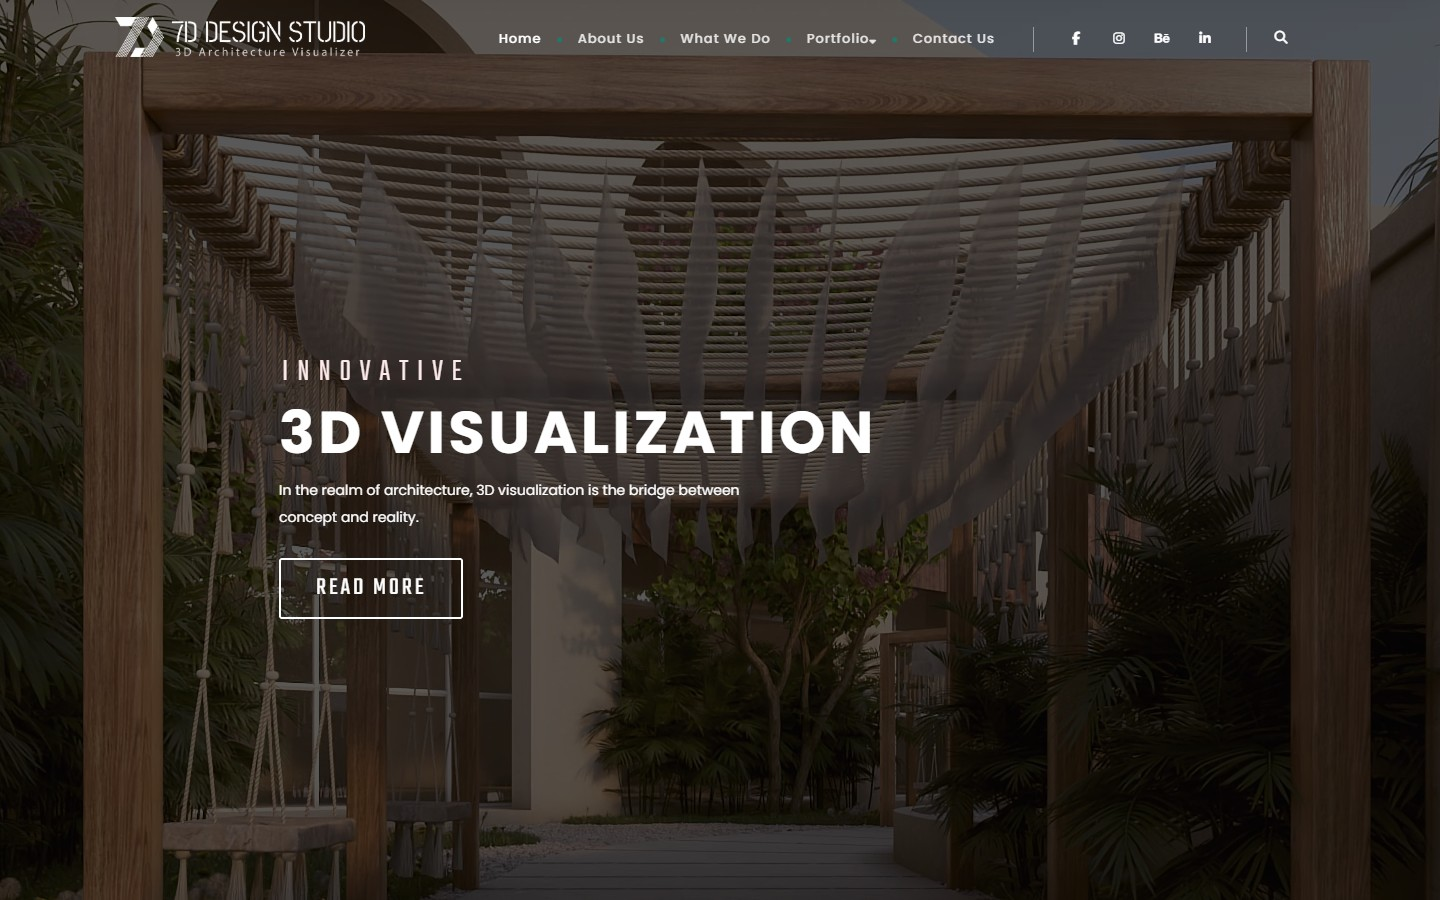
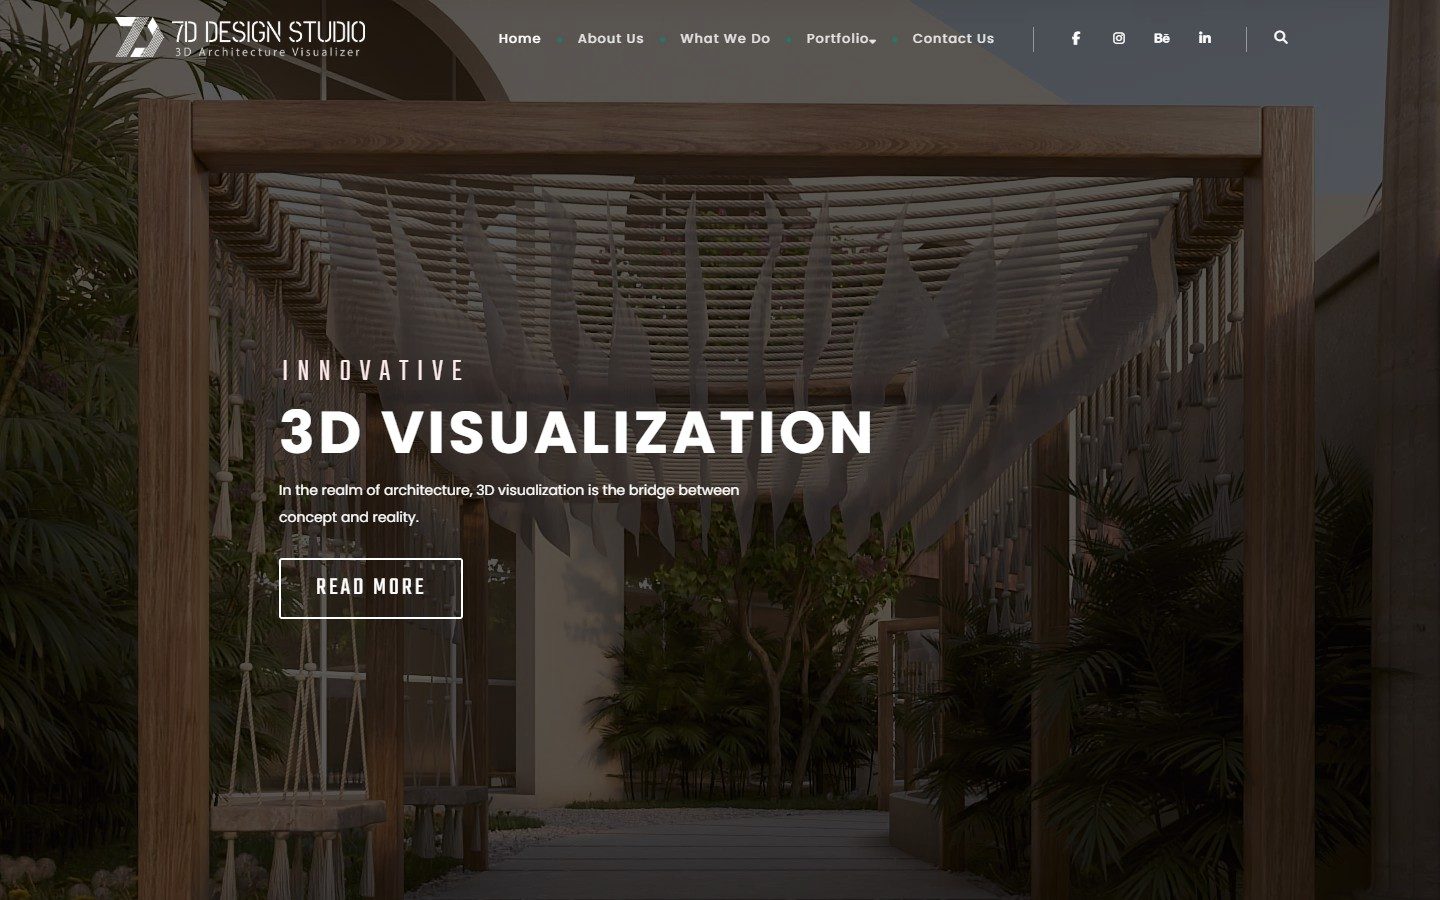
feat: implement portfolio data schema and grid component to showcase project showcase

diff --git a/app/data/portfolioData.ts b/app/data/portfolioData.ts
@@ -9,6 +9,7 @@ export interface Project {
   role?: string;
   liveUrl?: string;
   content?: string;
+  hasLiveUrl?: boolean;
 }
 
 export const projects: Project[] = [
@@ -46,17 +47,7 @@ export const projects: Project[] = [
     role: "Web Design & Development",
     liveUrl: "https://7ddesignstudios.in",
   },
-  {
-    slug: "ansh-exports",
-    title: "Ansh Exports",
-    category: "Business Website",
-    image: "/portfolio/ansh-exports.jpg",
-    description: "An export company website with product listings and international inquiry support.",
-    client: "Ansh Exports",
-    duration: "2 Weeks",
-    role: "Web Design & Development",
-    liveUrl: "https://anshexports.in",
-  },
+
   {
     slug: "stonils",
     title: "Stonils",
@@ -279,15 +270,134 @@ export const projects: Project[] = [
     role: "Landing Page Design & Development",
     liveUrl: "https://secureedgelife.in",
   },
+
+  // App Development (6 projects shown on old site)
   {
-    slug: "devrshree",
-    title: "Devrshree",
+    slug: "app-dev-seller",
+    title: "Seller App",
+    category: "App Development",
+    image: "/portfolio/app-dev-1.jpg",
+    description: "A seller-side mobile application with inventory management, order tracking, and real-time dashboard.",
+    client: "Tryangletech Client",
+    duration: "6 Weeks",
+    role: "Mobile App Development",
+    hasLiveUrl: false,
+  },
+  {
+    slug: "app-dev-user",
+    title: "User App",
+    category: "App Development",
+    image: "/portfolio/app-dev-2.jpg",
+    description: "A user-facing mobile application with seamless UI, product browsing, and order management.",
+    client: "Tryangletech Client",
+    duration: "6 Weeks",
+    role: "Mobile App Development",
+    hasLiveUrl: false,
+  },
+  {
+    slug: "app-dev-3",
+    title: "Mobile App Project",
+    category: "App Development",
+    image: "/portfolio/app-dev-3.jpg",
+    description: "A cross-platform mobile application built for seamless performance on iOS and Android.",
+    client: "Tryangletech Client",
+    duration: "8 Weeks",
+    role: "Mobile App Development",
+    hasLiveUrl: false,
+  },
+
+  // Software Development (3 projects shown on old site)
+  {
+    slug: "software-sevabridge",
+    title: "Seva Bridge",
+    category: "Software Development",
+    image: "/portfolio/software-sevabridge.jpg",
+    description: "A service bridge platform connecting service providers with customers through a streamlined digital workflow.",
+    client: "Tryangletech Client",
+    duration: "8 Weeks",
+    role: "Custom Software Development",
+    hasLiveUrl: false,
+  },
+  {
+    slug: "software-edms",
+    title: "My eDMS",
+    category: "Software Development",
+    image: "/portfolio/software-edms.jpg",
+    description: "A Document Management System built for efficient document storage, retrieval, and workflow automation.",
+    client: "Tryangletech Client",
+    duration: "10 Weeks",
+    role: "Custom Software Development",
+    hasLiveUrl: false,
+  },
+  {
+    slug: "software-eoffice",
+    title: "My eOffice",
+    category: "Software Development",
+    image: "/portfolio/software-eoffice.jpg",
+    description: "A digital office management platform for streamlining internal operations and document workflows.",
+    client: "Tryangletech Client",
+    duration: "10 Weeks",
+    role: "Custom Software Development",
+    hasLiveUrl: false,
+  },
+
+  // Graphic Design (6 projects shown on old site)
+  {
+    slug: "graphic-shrahav",
+    title: "Shrahav Mobile App Design",
+    category: "Graphic Design",
+    image: "/portfolio/graphic-shrahav.jpg",
+    description: "Complete UI/UX and graphic design for a mobile application including screens, icons, and brand identity.",
+    client: "Tryangletech Client",
+    duration: "3 Weeks",
+    role: "Graphic Design & UI/UX",
+    hasLiveUrl: false,
+  },
+  {
+    slug: "graphic-sasa",
+    title: "SASA Brand Design",
+    category: "Graphic Design",
+    image: "/portfolio/graphic-sasa.jpg",
+    description: "Brand identity and graphic design including logo, social media posts, and marketing collateral.",
+    client: "Tryangletech Client",
+    duration: "2 Weeks",
+    role: "Graphic Design & Branding",
+    hasLiveUrl: false,
+  },
+  {
+    slug: "graphic-greenpackwell",
+    title: "Greenpackwell Campaign",
+    category: "Graphic Design",
+    image: "/portfolio/graphic-greenpackwell.jpg",
+    description: "Social media campaign design and marketing post creation for a packaging brand.",
+    client: "Tryangletech Client",
+    duration: "2 Weeks",
+    role: "Graphic Design",
+    hasLiveUrl: false,
+  },
+  {
+    slug: "graphic-uttarayan",
+    title: "My eOffice Uttarayan",
+    category: "Graphic Design",
+    image: "/portfolio/graphic-uttarayan.jpg",
+    description: "Festival-themed graphic design and video production for a corporate brand campaign.",
+    client: "Tryangletech Client",
+    duration: "1 Week",
+    role: "Graphic Design & Video",
+    hasLiveUrl: false,
+  },
+
+  // Landing Website — add this one missing from old site
+  {
+    slug: "varnet-landing",
+    title: "Varnet Enterprise Landing",
     category: "Landing Website",
-    image: "/portfolio/devrshree.jpg",
-    description: "A landing page built for brand awareness and lead capture for a lifestyle brand.",
-    client: "Devrshree",
+    image: "/portfolio/varnet-enterprise.jpg",
+    description: "A high-converting landing page for Varnet Enterprise to drive product enquiries and online sales.",
+    client: "Varnet Enterprise",
     duration: "1 Week",
     role: "Landing Page Design & Development",
-    liveUrl: "https://devrshree.com",
+    liveUrl: "https://varnetenterprise.com",
+    hasLiveUrl: true,
   },
 ];

diff --git a/app/portfolio/components/PortfolioGrid.tsx b/app/portfolio/components/PortfolioGrid.tsx
@@ -14,21 +14,36 @@ const authorAvatars: Record<string, string> = {
   "logistics-tracker":  "/service-2-assets/6900857a13043eba725f30f1_kloudera-home-one-testimonial-client-image.webp",
 };
 
+const categories = [
+  "All",
+  "Business Website", 
+  "E-Commerce Website",
+  "Landing Website",
+  "App Development",
+  "Software Development",
+  "Graphic Design"
+];
+
 export default function PortfolioGrid() {
   const sectionRef = useRef<HTMLDivElement>(null);
+  const sentinelRef = useRef<HTMLDivElement>(null);
   const [activeFilter, setActiveFilter] = useState("All");
-
-  const categories = useMemo(() => {
-    const cats = new Set(projects.map(p => p.category));
-    return ["All", ...Array.from(cats)];
-  }, []);
+  
+  // Infinite scroll state
+  const [visibleCount, setVisibleCount] = useState(9);
+  const [isLoadingMore, setIsLoadingMore] = useState(false);
 
   const filteredProjects = useMemo(() => {
     if (activeFilter === "All") return projects;
     return projects.filter(p => p.category === activeFilter);
   }, [activeFilter]);
 
-  // Scroll-reveal: re-observe every time filter changes
+  // Reset visible count when filter changes
+  useEffect(() => {
+    setVisibleCount(9);
+  }, [activeFilter]);
+
+  // Scroll-reveal: re-observe every time filter or visibleCount changes
   useEffect(() => {
     const observer = new IntersectionObserver(
       (entries) => {
@@ -42,12 +57,11 @@ export default function PortfolioGrid() {
       { threshold: 0.08 }
     );
 
-    const elements = sectionRef.current?.querySelectorAll(".reveal-on-scroll");
+    const elements = sectionRef.current?.querySelectorAll(".reveal-on-scroll:not(.animate-fade-in-up)");
 
     // Delay slightly so Next.js finishes layout before we measure positions
     const timer = setTimeout(() => {
       elements?.forEach((el) => {
-        el.classList.remove("animate-fade-in-up");
         // If element is already in viewport (e.g. after client-side navigation),
         // reveal it immediately — don't wait for IntersectionObserver
         const rect = el.getBoundingClientRect();
@@ -63,7 +77,31 @@ export default function PortfolioGrid() {
       clearTimeout(timer);
       observer.disconnect();
     };
-  }, [activeFilter]);
+  }, [activeFilter, visibleCount]);
+
+  // Infinite scroll observer
+  useEffect(() => {
+    const observer = new IntersectionObserver(
+      (entries) => {
+        if (entries[0].isIntersecting && !isLoadingMore && visibleCount < filteredProjects.length) {
+          setIsLoadingMore(true);
+          setTimeout(() => {
+            setVisibleCount(prev => prev + 6);
+            setIsLoadingMore(false);
+          }, 500);
+        }
+      },
+      { threshold: 0.1 }
+    );
+
+    if (sentinelRef.current) {
+      observer.observe(sentinelRef.current);
+    }
+
+    return () => {
+      observer.disconnect();
+    };
+  }, [isLoadingMore, visibleCount, filteredProjects.length]);
 
   return (
     <div ref={sectionRef}>
@@ -149,6 +187,20 @@ export default function PortfolioGrid() {
             grid-template-columns: 1fr !important;
           }
         }
+
+        /* ── Loading Spinner ── */
+        @keyframes spin { 
+          to { transform: rotate(360deg); } 
+        }
+        .pf-spinner {
+          width: 36px;
+          height: 36px;
+          border-radius: 50%;
+          border: 3px solid #e5e7eb;
+          border-top-color: var(--vivid-blue, #1833fe);
+          animation: spin 0.7s linear infinite;
+          margin: 0 auto;
+        }
       `}</style>
 
       <div className="w-layout-blockcontainer rt-container-main w-container">
@@ -173,7 +225,7 @@ export default function PortfolioGrid() {
             className="rt-blog-v3-card-main w-dyn-items pf-grid"
             key={activeFilter}
           >
-            {filteredProjects.map((project, idx) => (
+            {filteredProjects.slice(0, visibleCount).map((project, idx) => (
               <div
                 key={`${activeFilter}-${project.slug}`}
                 role="listitem"
@@ -239,6 +291,17 @@ export default function PortfolioGrid() {
             ))}
           </div>
         </div>
+
+        {/* Infinite Scroll Sentinel & Loading indicator */}
+        {visibleCount < filteredProjects.length ? (
+          <div ref={sentinelRef} style={{ height: '20px', display: 'flex', justifyContent: 'center', marginTop: '2rem' }}>
+            {isLoadingMore && <div className="pf-spinner"></div>}
+          </div>
+        ) : (
+          <div style={{ textAlign: 'center', fontSize: '13px', color: '#9ca3af', padding: '1.5rem 0' }}>
+            ✓ All projects loaded
+          </div>
+        )}
 
       </div>
     </div>
